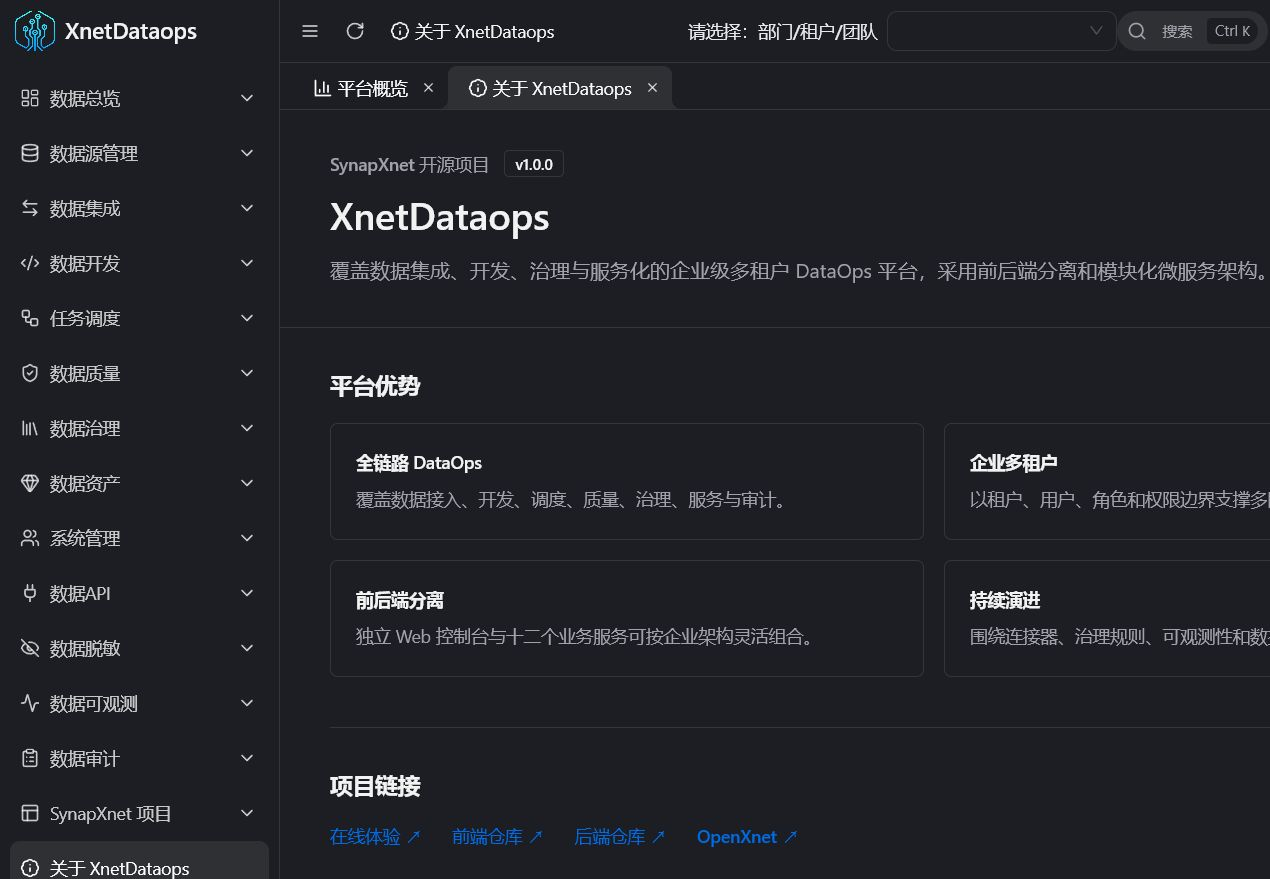
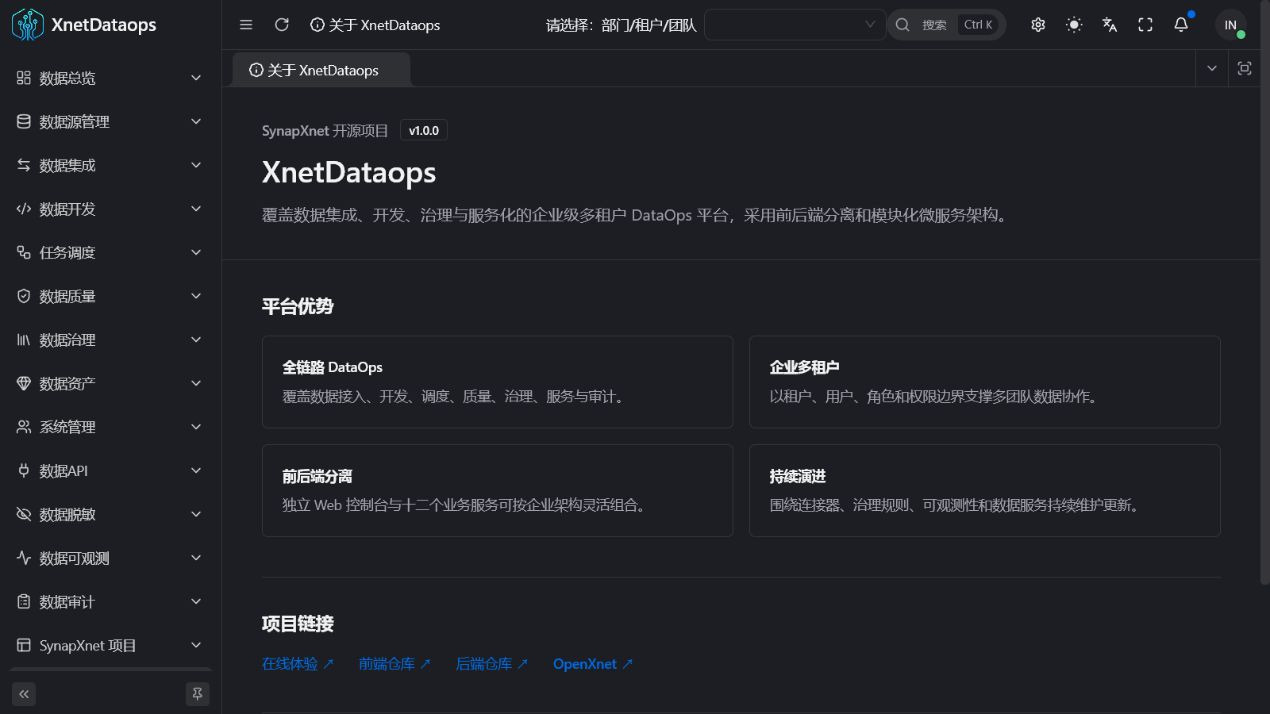
docs: expand XnetDataops screenshot gallery

diff --git a/README.zh-CN.md b/README.zh-CN.md
@@ -1,152 +1,11 @@
-<div align="center"> <a href="https://github.com/anncwb/vue-vben-admin"> <img alt="VbenAdmin Logo" width="215" src="https://unpkg.com/@vbenjs/static-source@0.1.7/source/logo-v1.webp"> </a> <br> <br>
+# XnetDataops Web 中文说明
 
-[![license](https://img.shields.io/github/license/anncwb/vue-vben-admin.svg)](LICENSE)
+XnetDataops Web 是由 **SynapXnet 团队**开源的企业级、多租户 DataOps 控制台，与后端仓库共同组成前后端分离系统。项目覆盖数据源、数据集成、数据开发、任务调度、质量、治理、资产、API、脱敏、可观测与审计。
 
-<h1>Vue Vben Admin</h1>
-</div>
+完整的项目介绍、模块说明、在线体验、页面截图、部署方式与开源许可统一维护在 [README.md](./README.md)。
 
-[![Quality Gate Status](https://sonarcloud.io/api/project_badges/measure?project=vbenjs_vue-vben-admin&metric=alert_status)](https://sonarcloud.io/summary/new_code?id=vbenjs_vue-vben-admin) ![codeql](https://github.com/vbenjs/vue-vben-admin/actions/workflows/codeql.yml/badge.svg) ![build](https://github.com/vbenjs/vue-vben-admin/actions/workflows/build.yml/badge.svg) ![ci](https://github.com/vbenjs/vue-vben-admin/actions/workflows/ci.yml/badge.svg) ![deploy](https://github.com/vbenjs/vue-vben-admin/actions/workflows/deploy.yml/badge.svg)
+- 在线体验：<https://www.xnetdataops.synapxnet.cn>
+- 后端仓库：[synapxnet/XnetDataops](https://github.com/synapxnet/XnetDataops)
+- OpenXnet 开源社区：<https://openxnet.synapxnet.com>
 
-**中文** | [English](./README.md) | [日本語](./README.ja-JP.md)
-
-## 简介
-
-Vue Vben Admin 是 Vue Vben Admin 的升级版本。作为一个免费开源的中后台模板，它采用了最新的 Vue 3、Vite、TypeScript 等主流技术开发，开箱即用，可用于中后台前端开发，也适合学习参考。
-
-## 升级提示
-
-该版本为最新版本`5.0`, 与其他版本不兼容，如果你是新项目，建议使用最新版本。如果你想查看旧版本，请使用 [v2 分支](https://github.com/vbenjs/vue-vben-admin/tree/v2)
-
-## 特性
-
-- **最新技术栈**：使用 Vue3/vite 等前端前沿技术开发
-- **TypeScript**: 应用程序级 JavaScript 的语言
-- **主题**：提供多套主题色彩，可配置自定义主题
-- **国际化**：内置完善的国际化方案
-- **权限** 内置完善的动态路由权限生成方案
-
-## 预览
-
-- [Vben Admin](https://vben.pro/) - 完整版中文站点
-
-测试账号: vben/123456
-
-<p align="center">
-    <img alt="VbenAdmin Logo" width="100%" src="https://anncwb.github.io/anncwb/images/preview1.png">
-    <img alt="VbenAdmin Logo" width="100%" src="https://anncwb.github.io/anncwb/images/preview2.png">
-    <img alt="VbenAdmin Logo" width="100%" src="https://anncwb.github.io/anncwb/images/preview3.png">
-</p>
-
-### 使用 Gitpod
-
-在 Gitpod（适用于 GitHub 的免费在线开发环境）中打开项目，并立即开始编码.
-
-[![Open in Gitpod](https://gitpod.io/button/open-in-gitpod.svg)](https://gitpod.io/#https://github.com/vbenjs/vue-vben-admin)
-
-## 文档
-
-[文档地址](https://doc.vben.pro/)
-
-## 安装使用
-
-- 获取项目代码
-
-```bash
-git clone https://github.com/vbenjs/vue-vben-admin.git
-```
-
-- 安装依赖
-
-```bash
-cd vue-vben-admin
-
-corepack enable
-
-pnpm install
-```
-
-- 运行
-
-```bash
-pnpm dev
-```
-
-- 打包
-
-```bash
-pnpm build
-```
-
-## 更新日志
-
-[CHANGELOG](https://github.com/vbenjs/vue-vben-admin/releases)
-
-## 如何贡献
-
-非常欢迎你的加入！[提一个 Issue](https://github.com/anncwb/vue-vben-admin/issues/new/choose) 或者提交一个 Pull Request。
-
-**Pull Request:**
-
-1. Fork 代码!
-2. 创建自己的分支: `git checkout -b feature/xxxx`
-3. 提交你的修改: `git commit -am 'feat(function): add xxxxx'`
-4. 推送您的分支: `git push origin feature/xxxx`
-5. 提交`pull request`
-
-## Git 贡献提交规范
-
-- 参考 [vue](https://github.com/vuejs/vue/blob/dev/.github/COMMIT_CONVENTION.md) 规范 ([Angular](https://github.com/conventional-changelog/conventional-changelog/tree/master/packages/conventional-changelog-angular))
-
-  - `feat` 增加新功能
-  - `fix` 修复问题/BUG
-  - `style` 代码风格相关无影响运行结果的
-  - `perf` 优化/性能提升
-  - `refactor` 重构
-  - `revert` 撤销修改
-  - `test` 测试相关
-  - `docs` 文档/注释
-  - `chore` 依赖更新/脚手架配置修改等
-  - `ci` 持续集成
-  - `types` 类型定义文件更改
-  - `wip` 开发中
-
-## 浏览器支持
-
-本地开发推荐使用`Chrome 80+` 浏览器
-
-支持现代浏览器, 不支持 IE
-
-| [<img src="https://raw.githubusercontent.com/alrra/browser-logos/master/src/edge/edge_48x48.png" alt=" Edge" width="24px" height="24px" />](http://godban.github.io/browsers-support-badges/)</br>IE | [<img src="https://raw.githubusercontent.com/alrra/browser-logos/master/src/edge/edge_48x48.png" alt=" Edge" width="24px" height="24px" />](http://godban.github.io/browsers-support-badges/)</br>Edge | [<img src="https://raw.githubusercontent.com/alrra/browser-logos/master/src/firefox/firefox_48x48.png" alt="Firefox" width="24px" height="24px" />](http://godban.github.io/browsers-support-badges/)</br>Firefox | [<img src="https://raw.githubusercontent.com/alrra/browser-logos/master/src/chrome/chrome_48x48.png" alt="Chrome" width="24px" height="24px" />](http://godban.github.io/browsers-support-badges/)</br>Chrome | [<img src="https://raw.githubusercontent.com/alrra/browser-logos/master/src/safari/safari_48x48.png" alt="Safari" width="24px" height="24px" />](http://godban.github.io/browsers-support-badges/)</br>Safari |
-| :-: | :-: | :-: | :-: | :-: |
-| not support | last 2 versions | last 2 versions | last 2 versions | last 2 versions |
-
-## 维护者
-
-[@Vben](https://github.com/anncwb)
-
-## Star History
-
-[![Star History Chart](https://api.star-history.com/svg?repos=vbenjs/vue-vben-admin&type=Date)](https://star-history.com/#vbenjs/vue-vben-admin&Date)
-
-## 捐赠
-
-如果你觉得这个项目对你有帮助，你可以帮作者买一杯咖啡表示支持!
-
-![donate](https://unpkg.com/@vbenjs/static-source@0.1.7/source/sponsor.png)
-
-<a style="display: block;width: 100px;height: 50px;line-height: 50px; color: #fff;text-align: center; background: #408aed;border-radius: 4px;" href="https://www.paypal.com/paypalme/cvvben">Paypal Me</a>
-
-## Contributor
-
-<a href="https://github.com/vbenjs/vue-vben-admin/graphs/contributors">
-  <img alt="Contributors"
-        src="https://opencollective.com/vbenjs/contributors.svg?button=false" />
-</a>
-
-## Discord
-
-- [Github Discussions](https://github.com/anncwb/vue-vben-admin/discussions)
-
-## License
-
-[MIT © Vben-2020](./LICENSE)
+前端基于 Vue 3、TypeScript、Ant Design Vue，并采用 [Vue Vben Admin](https://github.com/vbenjs/vue-vben-admin) 框架构建。项目遵循 MIT License，并依法保留上游框架的版权与许可声明。

diff --git a/README.md b/README.md
@@ -14,9 +14,19 @@
 
 ## 页面预览
 
-| 演示登录 | 关于项目 |
+| 演示登录 | 数据源配置 |
 | --- | --- |
-| ![XnetDataops 演示登录](./docs/images/xnetdataops-login.png) | ![XnetDataops 关于项目](./docs/images/xnetdataops-about.png) |
+| ![XnetDataops 演示登录](./docs/images/xnetdataops-login.png) | ![XnetDataops 数据源配置](./docs/images/xnetdataops-datasource.png) |
+| 数据同步 | SQL 工作台 |
+| ![XnetDataops 数据同步](./docs/images/xnetdataops-integration.png) | ![XnetDataops SQL 工作台](./docs/images/xnetdataops-workbench.png) |
+| 工作流调度 | 数据质量 |
+| ![XnetDataops 工作流调度](./docs/images/xnetdataops-workflows.png) | ![XnetDataops 数据质量](./docs/images/xnetdataops-quality.png) |
+| 数据血缘 | 数据 API |
+| ![XnetDataops 数据血缘](./docs/images/xnetdataops-lineage.png) | ![XnetDataops 数据 API](./docs/images/xnetdataops-api.png) |
+| 数据脱敏 | 数据可观测 |
+| ![XnetDataops 数据脱敏](./docs/images/xnetdataops-masking.png) | ![XnetDataops 数据可观测](./docs/images/xnetdataops-observability.png) |
+| 操作审计 | 关于项目 |
+| ![XnetDataops 操作审计](./docs/images/xnetdataops-audit.png) | ![XnetDataops 关于项目](./docs/images/xnetdataops-about.png) |
 
 ## 项目简介
 
